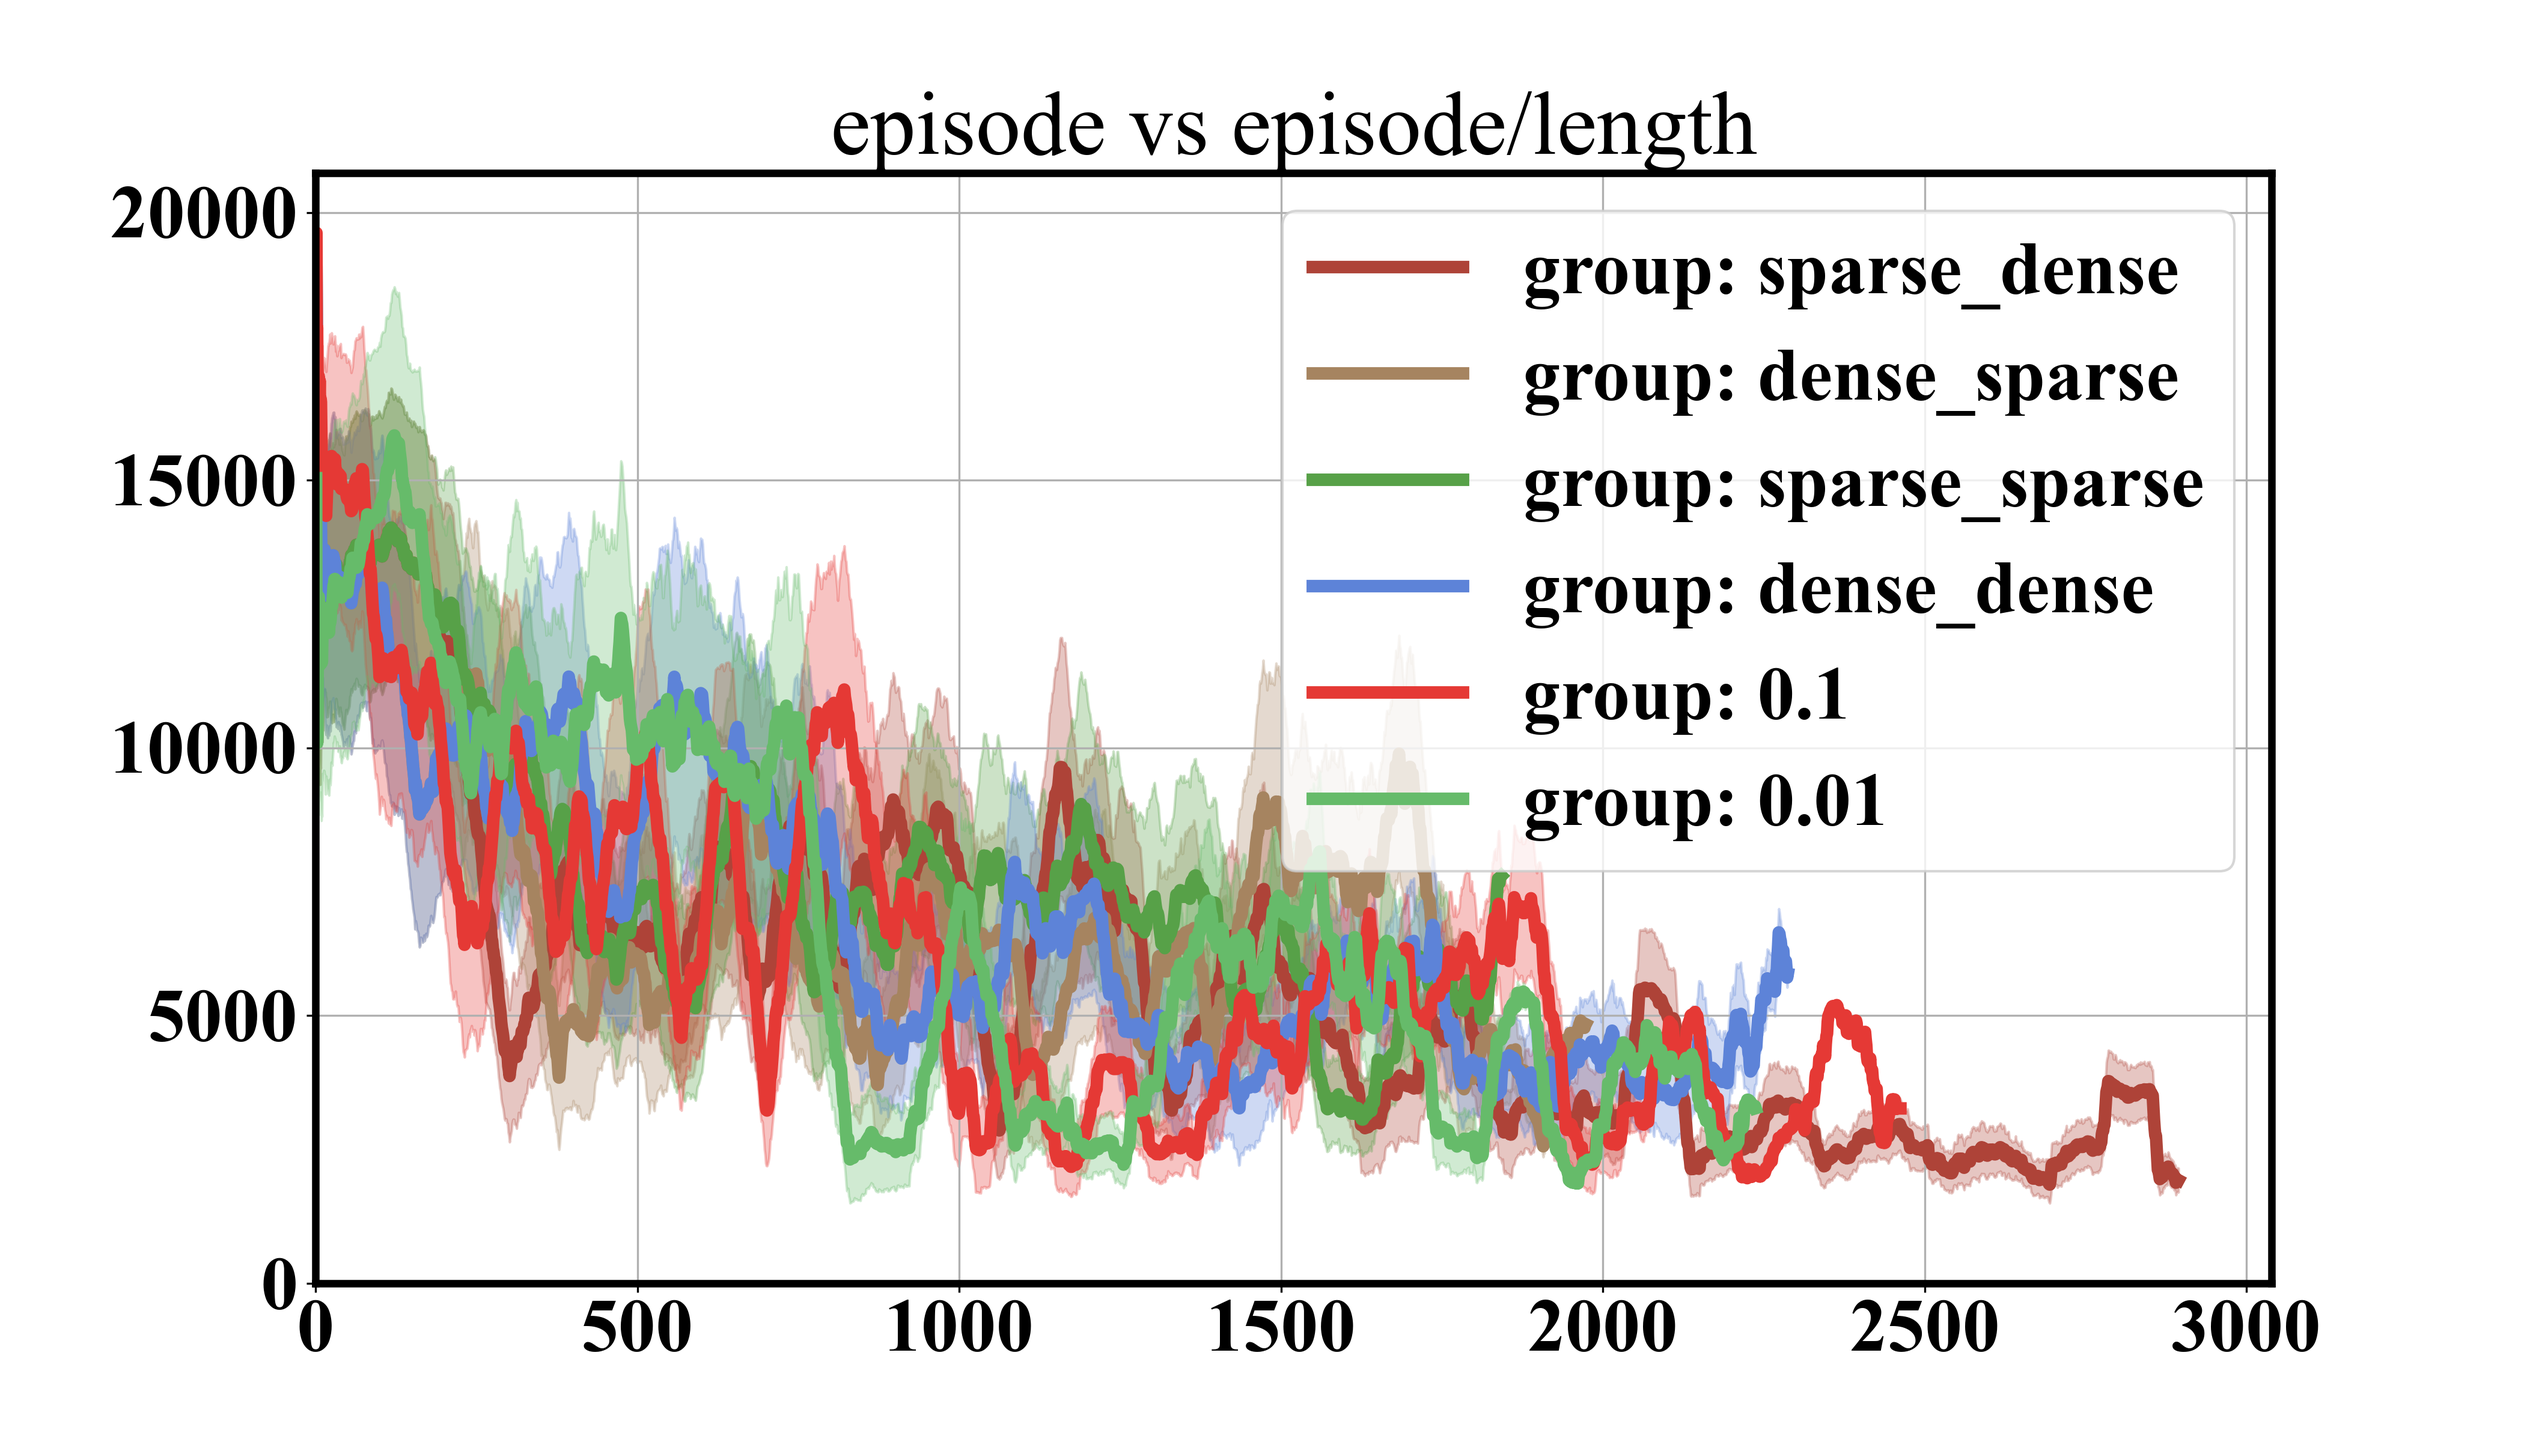
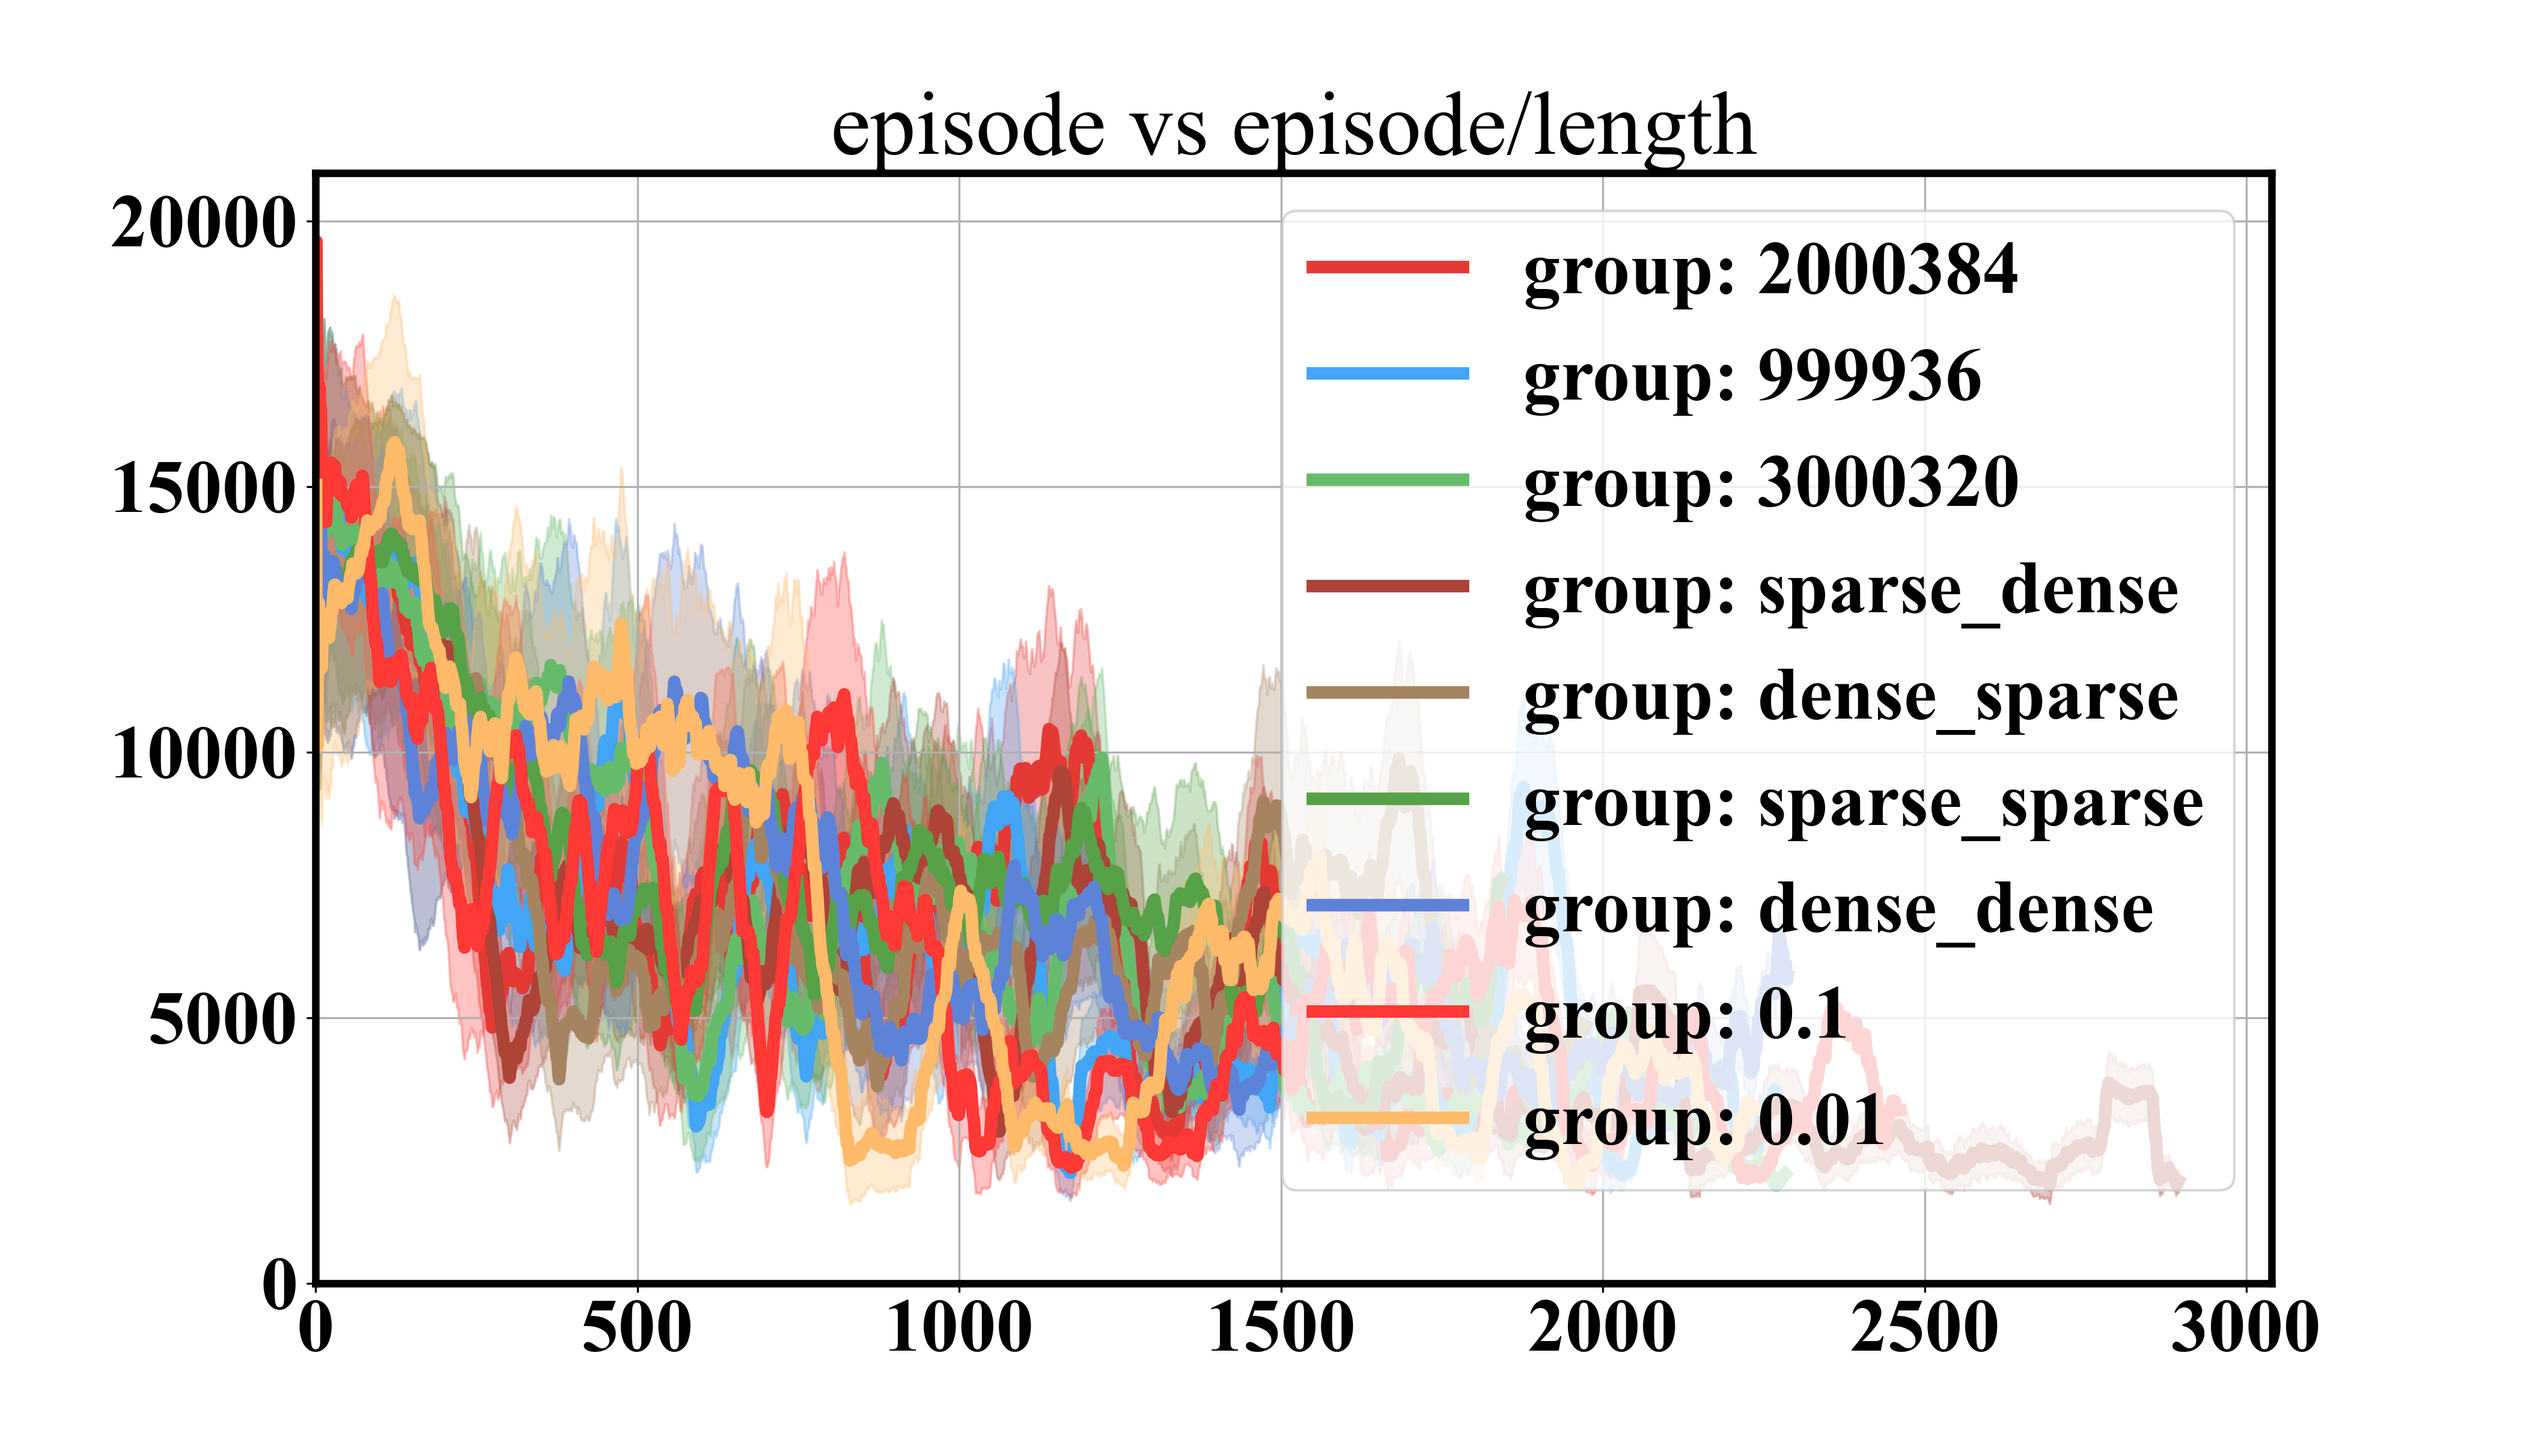
:sparkles: Draw all figures

diff --git a/post_processing/december/draw_figures_all.py b/post_processing/december/draw_figures_all.py
@@ -48,11 +48,14 @@ def plot_groups(
             entropy_groups_name,
             entropy_window_size,
         )
+    else:
+        print("No entropy data")
     if normal_room_groups is not None:
-        plot_groups_normal_experiments(
+        plot_impl_normal_experiments(
+            axis_x_name,
+            axis_y_name,
             normal_room_groups,
             normal_groups_name,
-            room_axis,
             normal_window_size,
         )
     if intrinsic_room_groups is not None:

diff --git a/post_processing/december/draw_intrinsic_experiments.py b/post_processing/december/draw_intrinsic_experiments.py
@@ -76,9 +76,9 @@ def plot_groups_intrinsics(axis_x_name, axis_y_name, groups, groups_name, window
 
         # Determine color based on the group
         if "0.1" in group_name:
-            color = "#E53935"  # 밝은 빨강
+            color = "#FF3935"  # 밝은 빨강
         elif "0.01" in group_name:
-            color = "#66BB6A"  # 밝은 초록
+            color = "#FFBB6A"  # 밝은 초록
         else:
             raise ValueError(f"Unknown group: {group_name}")
 

diff --git a/post_processing/december/draw_figures_entropy.py b/post_processing/december/draw_figures_entropy.py
@@ -68,6 +68,7 @@ def plot_entropy_groups(
 
 
 def draw_entropy_figures(axis_x_name, axis_y_name, groups, groups_name, window_size):
+    print(f"Entropy {groups_name}/{axis_x_name}/{axis_y_name}")
     for group_name, group_data in groups.items():
         print(group_name)
         group_data: List[pd.DataFrame]
